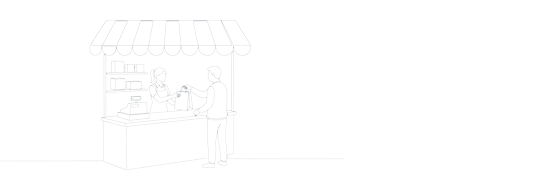
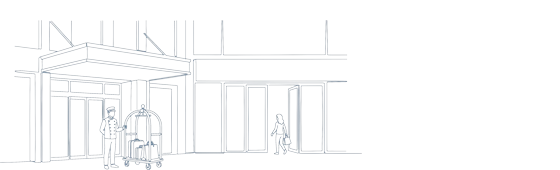
Painel de normas: aba de setores so com o mapa de calor (cartoes fora); comercio e servicos refeito como hotel e shopping

Changed region(s): [[0.0, 0.1176, 0.6375, 1.0], [0.0304, 0.1176, 0.1214, 0.2941], [0.0911, 0.2941, 0.1214, 0.3235]]

diff --git a/painel-normas.html b/painel-normas.html
@@ -23,7 +23,7 @@
 <link rel="preconnect" href="https://fonts.googleapis.com">
 <link href="https://fonts.googleapis.com/css2?family=IBM+Plex+Sans+Condensed:wght@300;400;500;600;700&family=IBM+Plex+Mono:wght@300;400;500;600;700&family=IBM+Plex+Serif:wght@300;400;500;600;700&display=swap" rel="stylesheet">
 <link rel="stylesheet" href="css/style.css?v=115">
-<link rel="stylesheet" href="css/painel-normas.css?v=55">
+<link rel="stylesheet" href="css/painel-normas.css?v=56">
 <meta name="description" content="Andamento das normas ISO de sistemas de gestão, sustentabilidade e segurança: estágio, comitê, revisão sistemática e certificados por país. Fonte: ISO Open Data e ISO Survey.">
 <script>document.documentElement.classList.add('js');window.addEventListener('load',function(){setTimeout(function(){if(!document.querySelector('.in-view')){var n=document.querySelectorAll('.rot-sec,.sec,.content>*');for(var i=0;i<n.length;i++){n[i].classList.add('in-view');}}},1200);});</script>
 </head>
@@ -160,7 +160,6 @@
       <div class="pn-topo"><h2>Certificados por setor</h2><span class="m">ISO Survey 2025 · setores EA informados pelos organismos de certificação</span></div>
       <div class="mp-sel" id="st-sel"></div>
       <div class="st-cab"><div class="st-onde" role="group" aria-label="Mundo ou Brasil"><button type="button" data-onde="mundo" aria-pressed="true">Mundo</button><button type="button" data-onde="br" aria-pressed="false"><img class="bandeira" src="https://cdn.jsdelivr.net/npm/flag-icons@7.2.3/flags/4x3/br.svg" alt="">Brasil</button></div><span class="m" id="st-total"></span></div>
-      <div class="st-grade" id="st-grade"></div>
       <div class="ca-cal" id="st-calor"></div>
       <p class="md-nota">Só os certificados cujo organismo informou o setor à ISO: para a ISO 9001, cerca de 22% dos certificados válidos. Classificação nos 39 setores EA (European co-operation for Accreditation), agrupados aqui nos setores que a Ideal Metrics atende. Fonte: ISO Survey 2025.</p>
     </div>
@@ -276,6 +275,6 @@
 <script src="js/banner.js?v=2"></script>
 <script src="https://cdnjs.cloudflare.com/ajax/libs/d3/7.9.0/d3.min.js" defer></script>
 <script src="https://cdnjs.cloudflare.com/ajax/libs/topojson/3.0.2/topojson.min.js" defer></script>
-<script src="js/painel-normas.js?v=23" defer></script>
+<script src="js/painel-normas.js?v=25" defer></script>
 <script src="js/gaveta.js?v=14" defer></script>
 </body></html>

diff --git a/js/painel-normas.js b/js/painel-normas.js
@@ -352,16 +352,17 @@
     var grupos = GRUPOS.map(function (g) { return { g: g, soma: g.ea.reduce(function (a, i) { return a + v[i]; }, 0) }; }).sort(function (a, b) { return b.soma - a.soma; });
     var max = grupos[0].soma || 1;
     $('#st-total').textContent = fmt(total) + ' certificados com setor informado · ' + (SURVEY_NOME[stNum] || 'ISO ' + stNum) + ' · ' + (stOnde === 'br' ? 'Brasil' : 'mundo');
-    $('#st-grade').innerHTML = grupos.map(function (x) {
+    /* 27/10: «pode tirar os cards, não está legal, deixe só o diagrama»: os cartões ficam no código, desligados (st-grade sumiu do HTML) */
+    if ($('#st-grade')) $('#st-grade').innerHTML = grupos.map(function (x) {
       var g = x.g, pct = total ? (x.soma / total * 100) : 0;
       var ea = g.ea.map(function (i) { return { i: i, v: v[i] }; }).sort(function (a, b) { return b.v - a.v; });
-      return '<article class="st-card entra">' + (g.sem ? '<div class="st-sem"></div>' : '<img class="st-ilus" src="img/setores/setor-' + g.id + '.webp" alt="" loading="lazy">') +
+      return '<article class="st-card entra">' + (g.sem ? '<div class="st-sem"></div>' : '<img class="st-ilus" src="img/setores/setor-' + g.id + '.webp?v=2" alt="" loading="lazy">') +
         '<h3>' + g.nome + '</h3><div class="st-n"><b>' + fmt(x.soma) + '</b><span class="m">' + pct.toFixed(1).replace('.', ',') + '% · ' + ea.length + (ea.length > 1 ? ' setores EA' : ' setor EA') + '</span></div>' +
         '<div class="st-barra"><i style="width:' + (x.soma / max * 100) + '%"></i></div>' +
         '<ul class="st-ea">' + ea.slice(0, 6).map(function (e) { return '<li' + (e.v ? '' : ' class="zero"') + '><span title="' + esc(S.setores[e.i]) + '">' + esc(EA_PT[e.i] || S.setores[e.i]) + '</span><b>' + fmt(e.v) + '</b></li>'; }).join('') +
         (ea.length > 6 ? '<li><span class="m">+ ' + (ea.length - 6) + ' setores EA</span><b>' + fmt(ea.slice(6).reduce(function (a, e) { return a + e.v; }, 0)) + '</b></li>' : '') + '</ul></article>';
     }).join('');
-    entra($('#st-grade'));
+    if ($('#st-grade')) entra($('#st-grade'));
     pintaCalor();
   }
   /* 27/10: «a base traz mais divisões por setores… fazer um gráfico, um dashboard melhor», com o calendário de quadrados que

diff --git a/css/painel-normas.css b/css/painel-normas.css
@@ -581,3 +581,4 @@
 .ca-dica.on{opacity:1}
 @media (prefers-reduced-motion:reduce){.ca-q{transition:none;transform:none;opacity:1}}
 @media (max-width:980px){.ca-linha{grid-template-columns:120px auto}.ca-barra,.ca-linha>b{display:none}}
+.ca-cal{margin-top:0}   /* 27/10: só o diagrama na aba de setores, sem os cartões */

diff --git a/_ferramentas/setores_img.py b/_ferramentas/setores_img.py
@@ -32,12 +32,11 @@ def main():
         n = os.path.basename(f)[:-4]; assenta(svg_para_rgba(f, W * 2), NOMES.get(n, n))
     extra = ICONES / 'linha-comercio.png'
     if extra.exists():
-        im = Image.open(extra).convert('RGBA'); px = im.load()
-        for y in range(im.height):   # fundo branco/creme do Flow vira transparente, traço fica
-            for x in range(im.width):
-                r, g, b, a = px[x, y]; lum = (r + g + b) / 3
-                if lum > 236: px[x, y] = (51, 102, 153, 0)
-                else: k = max(0, min(255, int((236 - lum) * 1.6))); px[x, y] = (51, 102, 153, k)
+        # o JPG do Flow (2752 px) tem traço cinza e fino: o traço vira alfa com contraste forte e engrossa 1 px antes de reduzir,
+        # para ficar no peso dos nove vetores
+        g = Image.open(extra).convert('L')
+        alfa = g.point(lambda v: 0 if v > 245 else min(255, int((245 - v) * 4))).filter(ImageFilter.MaxFilter(3))
+        im = Image.merge('RGBA', (Image.new('L', g.size, 51), Image.new('L', g.size, 102), Image.new('L', g.size, 153), alfa))
         assenta(im, 'setor-comercio')
 
 if __name__ == '__main__':

diff --git a/CLAUDE.md b/CLAUDE.md
@@ -103,7 +103,7 @@ Regra da casa: o que o Leandro corrige numa página vira padrão do site inteiro
 - **Aba [ 02 ] Certificados por setor (27/10/2026, «dentro do ISO Survey… deve ter a divisão de certificados por setor, faça uma nova aba… uma ilustração para cada setor»):** fonte é a planilha 2 do ISO Survey 2025 (`… — 2 Setores EA por País.xlsx`, 39 setores EA por país e norma), lida por `survey_setores()` do `painel_normas.py` (`dados.setores`: nomes dos 39 setores, e por norma os vetores `mundo` e `br`). O JS agrupa os 39 EA nos dez setores da Ideal Metrics (`GRUPOS`: Indústria com 22 EA, Construção e facilities, Comércio e serviços, Tecnologia e engenharia, Transporte e logística, Saúde, Energia e saneamento, Alimentos e bebidas, Setor público e educação, Agro) e nomeia os EA em português (`EA_PT`). Cartão por setor com a ilustração da brochura (`img/setores/setor-<id>.webp`, 560 px, feitas de `brochuras/icones/estiloC-sem-feixe/`), total, % e os seis maiores EA em linhas de 22 px; Mundo/Brasil; mesma fileira de 17 normas do mapa. Ilustrações SEM o creme («não deixe a faixa creme de fundo, faça todos da mesma largura, e faça um pouco mais sério»): o #F3F0E9 vira transparente, os nove na mesma tela 560 × 300 assentados embaixo, depois («menores e mais largas… mais discretas», «muito grandes, muito altas… uma coisa mais sóbria») na tela 560 × 100 (`_ferramentas/setores_img.py`, ≈ 55 px no cartão) em monocromia `grayscale(1) brightness(.9) opacity(.45)`, como marca d'água; o fiscal do Setor público saiu por corte («tire aquele guarda», `CORTE` no script). Cartão com número menor (20 px, 600) e barra de 2 px em tinta a 55%. Comércio e serviços ainda SEM ilustração (a brochura não tem): espaço vazio da mesma altura. Nota na aba: só certificados com setor informado (ISO 9001: 358.909 de 1,61 mi). Abas renumeradas de [ 01 ] a [ 06 ], `.pn-abas` com 6 colunas. O JSON passou a ser buscado com `?v=` igual ao do JS (a aba nasceu com JSON em cache).
 - **Globo, 3ª rodada (27/10/2026):** oceano branco a 78% («a cor de fundo tem que ser mais clara do que a cor mais clara da legenda», e «20% menos transparente»); lado de trás em tinta a 5% («o fundo dos continentes, no transparente… ainda mais claro»), desenhado SOBRE o oceano. PULSOS («nos principais países, com pulso animado, fosse mostrando os números conforme o globo gira»): os oito maiores da norma mais o Brasil ganham `g.pulso` no centróide (anel que pulsa, traço 0,5 «o mais fino possível», ponto e o número com contorno branco), só no hemisfério da frente (`geoDistance` < 1,42 rad), refeitos ao trocar de norma. Os números NÃO acompanham o ponto («as tags de número ficam pulando conforme o globo roda, use varetas bem finas»): ficam numa coluna fixa à direita do globo (x = centro + raio + 26, uma vaga de 22 px por país na ordem do ranking) com nome e número, ligados ao ponto do país por uma vareta de 0,4; cada conjunto some e aparece em fade de .45 s.
 - **Entrada, tags e menu (27/10/2026):** efeito de entrada em todas as abas, inclusive a tabela dos países («em todas as páginas tenha efeito de entrada»): a vista sobe 10 px e os filhos do bloco (`entra(bloco)`: itens, linhas, cartões, até 40) sobem um a um com 35 ms de atraso; a tabela dos países do mapa entra da ESQUERDA para a direita («quero que o efeito de entrada aqui seja da esquerda para direita»: `pn-entra-esq`, 14 px). As 17 tags de norma em grade de colunas IGUAIS sem rolagem («os tags de norma tenham a mesma largura», «não precisa [da barra de rolagem], só tem uma linha»): 9,5 px com `letter-spacing:-.02em`, as de mais de 13 caracteres (`.longo`, ISO/IEC 20000-1) em 8,6 px. Menu do topo só nesta página («mais fino, inclusive o botão de contato, e transparente glass»): `.pn-pagina .barra` com 46 px, creme a 40% com desfoque de 22 px, Contato e Menu com padding 5/14, `.barra-espaco` 72 px.
-- **Setores, 3ª rodada (27/10/2026):** ilustrações em LINHA CONTÍNUA («faça aquele modelo de única linha»): `_ferramentas/setores_img.py` lê os vetores `brochuras/icones/setor-<nome>.svg` (coleção B, 25/10), afina o traço em 30% (MinFilter mesclado; o afinamento total «ficou muito fino»), pinta de azul `#336699` («faça os ícones em azul») e assenta na tela 560 × 170 com 20 px de ar em cima («mais finas, menores, mais largos, espaço maior acima»). COMÉRCIO E SERVIÇOS gerado no Flow em 27/10 (projeto «out. 22 - 10:06», Nano Banana Pro, referência «Nine industry illustrations», prompt de linha contínua, balcão com caixa entregando sacola), baixado em 2K para `brochuras/icones/linha-comercio.png`; o script tira o fundo branco e pinta o traço. Cartões com a MESMA altura («os cards devem ter a mesma altura»): `.st-ea` fixo em 7 linhas (154 px). Mundo/Brasil em duas colunas iguais, Brasil com a bandeira monocromática. Dashboard («a base traz mais divisões… um gráfico, um dashboard melhor», com o calendário de quadrados que ele mandou como linguagem): `#st-calor`, mapa de calor 39 setores EA × 17 normas, quadrados de 13 px em 5 níveis (0, <10, <100, <1 mil, 10 mil+) nas cores do calendário (`#D3E2F2 #9DBBDA #5C88B8 #14304C`), entrada em escala com atraso por coluna e linha (`ca-on`), dica no mouse, cabeçalho com as normas na vertical (clique troca a norma), coluna da norma escolhida marcada e, na mesma linha, a barra e o número dessa norma; linhas na ordem da norma escolhida. Varetas do globo: texto sem contorno branco («não precisa dessa sombra branca»).
+- **Setores, 3ª rodada (27/10/2026):** ilustrações em LINHA CONTÍNUA («faça aquele modelo de única linha»): `_ferramentas/setores_img.py` lê os vetores `brochuras/icones/setor-<nome>.svg` (coleção B, 25/10), afina o traço em 30% (MinFilter mesclado; o afinamento total «ficou muito fino»), pinta de azul `#336699` («faça os ícones em azul») e assenta na tela 560 × 170 com 20 px de ar em cima («mais finas, menores, mais largos, espaço maior acima»). COMÉRCIO E SERVIÇOS gerado no Flow em 27/10 (projeto «out. 22 - 10:06», Nano Banana Pro, referência «Nine industry illustrations», prompt de linha contínua, fachada de hotel com mensageiro e carrinho de malas ao lado de um shopping, 2ª geração; o balcão de loja da 1ª foi recusado: «comércio não é esse desenho, pode ser um hotel, shopping»), baixado em 2K para `brochuras/icones/linha-comercio.png`; o script tira o fundo branco e pinta o traço. Cartões com a MESMA altura («os cards devem ter a mesma altura»): `.st-ea` fixo em 7 linhas (154 px). Em seguida os CARTÕES SAÍRAM («pode tirar os cards, não está legal, deixe só o diagrama»): `#st-grade` fora do HTML, o código do cartão fica em `pintaSetores()` guardado por `if ($('#st-grade'))`; as ilustrações dos setores (`img/setores/`) ficam no repositório sem uso. Mundo/Brasil em duas colunas iguais, Brasil com a bandeira monocromática. Dashboard («a base traz mais divisões… um gráfico, um dashboard melhor», com o calendário de quadrados que ele mandou como linguagem): `#st-calor`, mapa de calor 39 setores EA × 17 normas, quadrados de 13 px em 5 níveis (0, <10, <100, <1 mil, 10 mil+) nas cores do calendário (`#D3E2F2 #9DBBDA #5C88B8 #14304C`), entrada em escala com atraso por coluna e linha (`ca-on`), dica no mouse, cabeçalho com as normas na vertical (clique troca a norma), coluna da norma escolhida marcada e, na mesma linha, a barra e o número dessa norma; linhas na ordem da norma escolhida. Varetas do globo: texto sem contorno branco («não precisa dessa sombra branca»).
 - **Atualização semanal:** a rotina agendada «Ballots ISO/ABNT» (segunda, 9h) roda `python _ferramentas/painel_normas.py` (sem `--cache`) e commita os dois JSON de `dados/`. Push continua só quando o Leandro mandar.
 - Menu: item «Painel de normas ISO» na coluna Estudos e pesquisa aplicada (`blocos.py`, ícone `painel`). Páginas de serviço ligadas às normas em `PAGINA` no gerador; a ficha da norma mostra o link «Serviço da Ideal Metrics nesta norma» quando existe.
 
